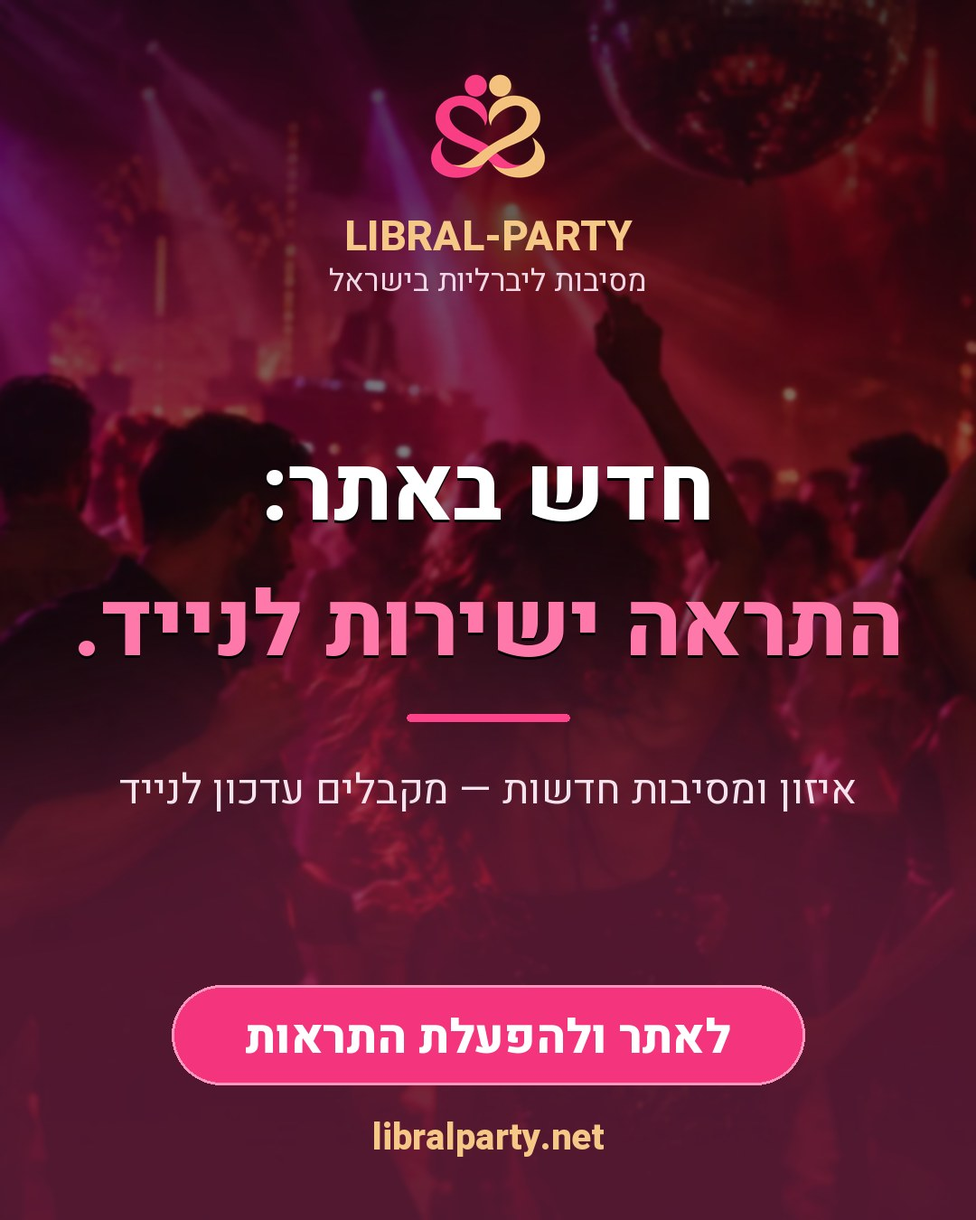
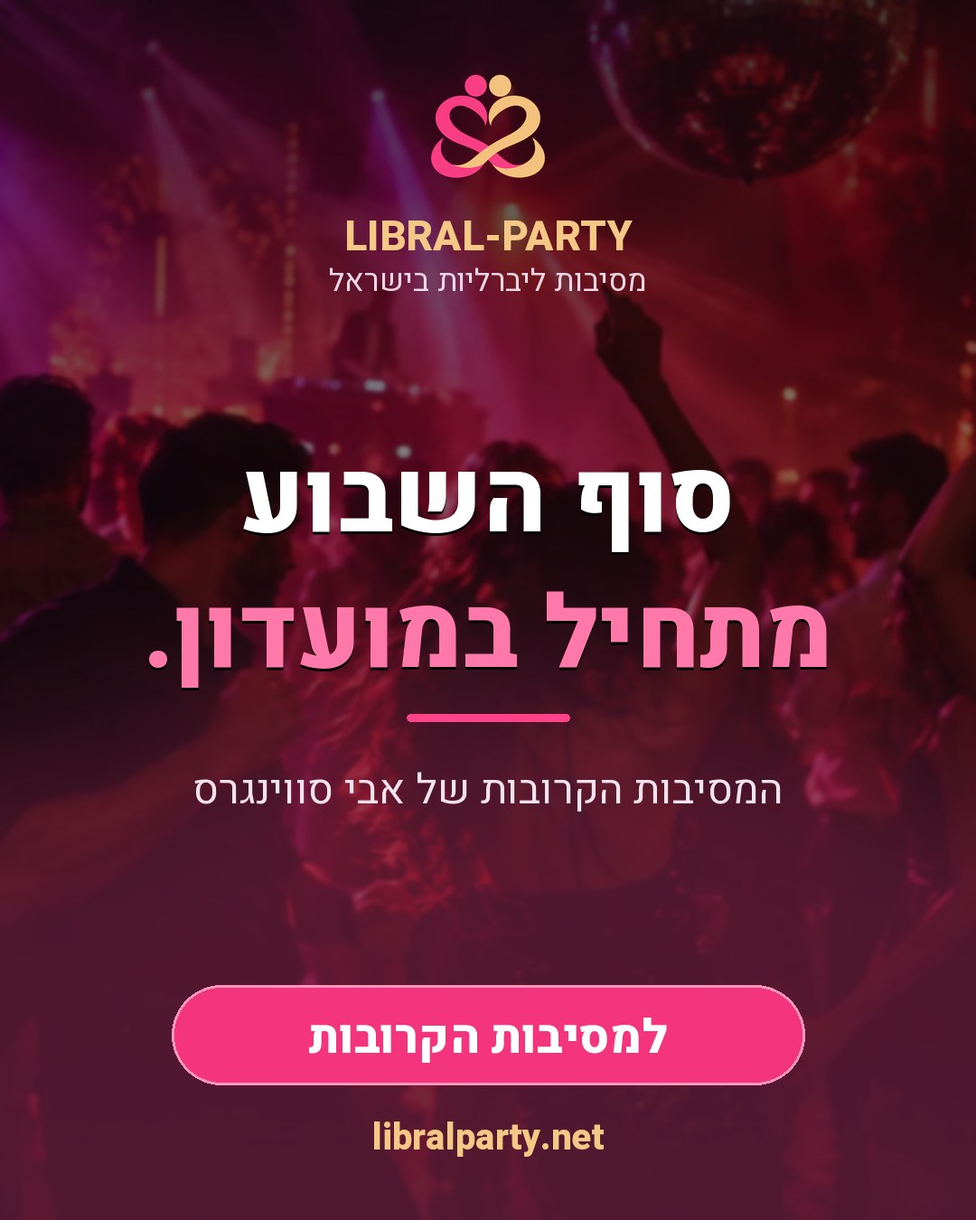
קמפיינים חדשים: ניהול חדש לאתר (אבי סווינגרס), המועדון של אבי והסוויטה הליברלית; בלי איזונים ובלי מנויים
Claude-Session: https://claude.ai/code/session_01MnETpxBKVPfyu1WyzPnxXv

diff --git a/shared/telegramCampaigns.js b/shared/telegramCampaigns.js
@@ -1,69 +1,64 @@
 // Generated by scripts/campaigns/make_campaigns.py — do not edit by hand.
-export const TELEGRAM_CAMPAIGNS_VERSION = "2026-10-21";
+export const TELEGRAM_CAMPAIGNS_VERSION = "2026-10-28";
 export const TELEGRAM_CAMPAIGNS = [
   {
     "id": "c01",
     "image": "https://www.libralparty.net/assets/campaigns/c01.jpg",
-    "caption": "💬 הקבוצה שלנו בוואטסאפ!\nמסיבות חדשות ועדכונים, ישר לנייד. מצטרפים בלחיצה.\n\n👇 להצטרפות לקבוצה:\nhttps://chat.whatsapp.com/LHo4Spoy73b38mDI5XEcF7"
+    "caption": "📣 עדכון חשוב: LIBRAL PARTY בניהול חדש!\nהאתר עובר לניהול של אבי סווינגרס. כל המסיבות של המועדון מופיעות באתר, וההרשמה נעשית בוואטסאפ מול אבי.\n\n👇 כל המסיבות באתר:\nhttps://www.libralparty.net/"
   },
   {
     "id": "c02",
     "image": "https://www.libralparty.net/assets/campaigns/c02.jpg",
-    "caption": "👥 הקבוצה שלנו בפייסבוק!\nמסיבות, חדשות מהקהילה והכרויות. מצטרפים ורואים הכל ראשונים.\n\n👇 להצטרפות לקבוצה:\nhttps://www.facebook.com/share/g/1D7ng47o28/"
+    "caption": "✨ הסוויטה הליברלית פתוחה להזמנות!\nסוויטת אירוח יוקרתית, מזוג אחד ועד 10 זוגות, עם פרטיות מלאה.\n\n👇 כל הפרטים והמחירון:\nhttps://www.libralparty.net/liberal-suite"
   },
   {
     "id": "c03",
     "image": "https://www.libralparty.net/assets/campaigns/c03.jpg",
-    "caption": "📸 עוקבים אחרינו באינסטגרם!\nתמונות, מסיבות חדשות וחדשות מהקהילה, בכל יום.\n\n👇 לעמוד שלנו:\nhttps://www.instagram.com/liberl_party/"
+    "caption": "🔥 המסיבות של המועדון של אבי סווינגרס!\nכל התאריכים הקרובים מופיעים באתר. בוחרים מסיבה ונרשמים בוואטסאפ מול אבי.\n\n👇 המסיבות הקרובות:\nhttps://www.libralparty.net/events"
   },
   {
     "id": "c04",
     "image": "https://www.libralparty.net/assets/campaigns/c04.jpg",
-    "caption": "🤝 תביאו חברים והקהילה גדלה!\nשולחים להם את הקישור, והם מצטרפים לקבוצות ולמסיבות שלנו.\n\n👇 הקישור לשליחה:\nhttps://www.libralparty.net/"
+    "caption": "🎂 יום הולדת שלא שוכחים!\nימי הולדת ומסיבות פרטיות ברמת פרימיום, בסוויטה הליברלית.\n\n👇 לפרטים ולהזמנה:\nhttps://www.libralparty.net/liberal-suite"
   },
   {
     "id": "c05",
     "image": "https://www.libralparty.net/assets/campaigns/c05.jpg",
-    "caption": "🌐 מצטרפים אלינו בכל מקום!\nהאתר, קבוצת הוואטסאפ, קבוצת הפייסבוק והאינסטגרם. בוחרים מה נוח לכם.\n\n👇 כניסה לאתר וכל הקישורים:\nhttps://www.libralparty.net/"
+    "caption": "💬 ההרשמה למסיבות פשוטה!\nבוחרים מסיבה באתר, לוחצים על \"הרשמה בוואטסאפ\" ושולחים הודעה לאבי. הוא חוזר אליכם עם כל הפרטים.\n\n👇 בוחרים מסיבה:\nhttps://www.libralparty.net/events"
   },
   {
     "id": "c06",
     "image": "https://www.libralparty.net/assets/campaigns/c06.jpg",
-    "caption": "✈ הערוץ שלנו בטלגרם!\nמסיבות חדשות ועדכונים מהקהילה. מכירים מישהו שיאהב? שולחים לו את הקישור.\n\n👇 מצטרפים לערוץ:\nhttps://t.me/libralparty"
+    "caption": "🌙 חדש בסוויטה הליברלית: אפטרים גם בלילה!\nשש שעות של חופש, על בסיס מקום פנוי.\n\n👇 לבדיקת זמינות:\nhttps://www.libralparty.net/liberal-suite"
   },
   {
     "id": "c07",
     "image": "https://www.libralparty.net/assets/campaigns/c07.jpg",
-    "caption": "📲 חדש באתר: התראות ישירות לנייד!\nמאשרים התראות פעם אחת, ומקבלים עדכון בכל פעם שעולה מסיבה חדשה.\n\n👇 נכנסים לאתר ומאשרים התראות:\nhttps://www.libralparty.net/"
+    "caption": "🎉 סוף השבוע מתחיל במועדון של אבי סווינגרס!\nכל המסיבות הקרובות באתר, וההרשמה בוואטסאפ.\n\n👇 המסיבות הקרובות:\nhttps://www.libralparty.net/events"
+  },
+  {
+    "id": "c08",
+    "image": "https://www.libralparty.net/assets/campaigns/c08.jpg",
+    "caption": "🌹 ערב זוגי ברמה אחרת.\nלינה וערב רומנטי ומיוחד בסוויטה הליברלית, בפרטיות מלאה.\n\n👇 לפרטים ולהזמנה:\nhttps://www.libralparty.net/liberal-suite"
+  },
+  {
+    "id": "c09",
+    "image": "https://www.libralparty.net/assets/campaigns/c09.jpg",
+    "caption": "📅 כל המסיבות של המועדון בלוח אחד!\nמפנים מקום ביומן ובוחרים את הלילה הבא.\n\n👇 ללוח האירועים:\nhttps://www.libralparty.net/calendar"
+  },
+  {
+    "id": "c10",
+    "image": "https://www.libralparty.net/assets/campaigns/c10.jpg",
+    "caption": "🖤 מתחם אבזור מושקע בסוויטה הליברלית!\nנדנדת פליי, חמור, ספת טנטרה וצלב, וחדר רחצה מרהיב.\n\n👇 לכל הפרטים:\nhttps://www.libralparty.net/liberal-suite"
   },
   {
     "id": "c11",
     "image": "https://www.libralparty.net/assets/campaigns/c11.jpg",
-    "caption": "✨ האתר התחדש!\nעיצוב חדש, טעינה מהירה בהרבה ותצוגה נוחה גם במחשב.\n\n👇 בואו להתרשם:\nhttps://www.libralparty.net/"
+    "caption": "🌙 הלילה הבא מתחיל כאן!\nכל המסיבות של המועדון של אבי סווינגרס, באתר אחד.\n\n👇 כניסה לאתר:\nhttps://www.libralparty.net/"
   },
   {
-    "id": "c14",
-    "image": "https://www.libralparty.net/assets/campaigns/c14.jpg",
-    "caption": "🔥 מסיבות חדשות עלו עכשיו לאתר!\nכל התאריכים, המקומות וההרשמה, הכל במקום אחד.\n\n👇 מה מתאים לכם הלילה?\nhttps://www.libralparty.net/events"
-  },
-  {
-    "id": "c16",
-    "image": "https://www.libralparty.net/assets/campaigns/c16.jpg",
-    "caption": "💑 זוגות, ההרשמה למסיבה לוקחת דקה!\nבוחרים מסיבה, שולחים הודעה בוואטסאפ ומגיעים ליהנות.\n\n👇 מסיבות פתוחות להרשמה:\nhttps://www.libralparty.net/events"
-  },
-  {
-    "id": "c17",
-    "image": "https://www.libralparty.net/assets/campaigns/c17.jpg",
-    "caption": "✨ פחות שגרה, יותר לילה!\nהמסיבה הבאה שלכם כבר מחכה באתר.\n\n👇 לוחצים ונרשמים:\nhttps://www.libralparty.net/events"
-  },
-  {
-    "id": "c18",
-    "image": "https://www.libralparty.net/assets/campaigns/c18.jpg",
-    "caption": "🩶 קהילה מכבדת, חיבורים מעניינים.\nמרחב של חופש ושל כבוד הדדי, להכיר, לרקוד ולצאת מהרגיל.\n\n👇 קצת עלינו:\nhttps://www.libralparty.net/about"
-  },
-  {
-    "id": "c20",
-    "image": "https://www.libralparty.net/assets/campaigns/c20.jpg",
-    "caption": "📅 כל המסיבות בלוח אחד!\nמפנים מקום ביומן ובוחרים את הלילה הבא.\n\n👇 ללוח האירועים:\nhttps://www.libralparty.net/calendar"
+    "id": "c12",
+    "image": "https://www.libralparty.net/assets/campaigns/c12.jpg",
+    "caption": "🥂 מסיבה פרטית משלכם!\nסלון אירוח מפנק, בר יוקרתי ומערכות סאונד, מזוג אחד ועד 10 זוגות.\n\n👇 לפרטים ולהזמנה:\nhttps://www.libralparty.net/liberal-suite"
   }
 ];

diff --git a/tests/api/campaignPost.test.js b/tests/api/campaignPost.test.js
@@ -92,3 +92,13 @@ describe('owner switches for the publisher', () => {
     expect(sent).toHaveLength(1);
   });
 });
+
+describe('campaign content', () => {
+  it('campaigns are only about the club and the suite: no balancing, memberships or site sign-up', async () => {
+    const { TELEGRAM_CAMPAIGNS } = await import('../../shared/telegramCampaigns.js');
+    expect(TELEGRAM_CAMPAIGNS.length).toBeGreaterThan(0);
+    for (const c of TELEGRAM_CAMPAIGNS) {
+      expect(c.caption, c.id).not.toMatch(/איזון|איזונ|מאוזנ|מנוי|האזור האישי|מועדפים|מפרסמ|\/register|\/membership|\/my-area/);
+    }
+  });
+});

diff --git a/scripts/campaigns/make_campaigns.py b/scripts/campaigns/make_campaigns.py
@@ -17,39 +17,41 @@ BG = {
     "lounge": "public/assets/design/lounge.webp",
     "pool": "public/assets/design/pool.webp",
     "social": "public/assets/design/social-banner.webp",
+    "suite": "public/assets/design/liberal-suite/suite-beds.jpeg",
+    "suitebar": "public/assets/design/liberal-suite/suite-bar.jpeg",
+    "suitelounge": "public/assets/design/liberal-suite/lounge-main.jpeg",
+    "suitesofa": "public/assets/design/liberal-suite/lounge-sofa.jpeg",
 }
 
 # id, background, headline lines (last line is highlighted), subline, button text, page, caption
+# Campaigns are only about Avi Swingers' club (the parties on the site, registration by WhatsApp with Avi)
+# and the Liberal Suite advertised on the site. Never about balancing, memberships or site accounts.
 CAMPAIGNS = [
-    # Join the community (first in the rotation, so the new pool starts with them)
-    ("g1", "social", ["הקבוצה שלנו", "בוואטסאפ."], "מסיבות חדשות ועדכונים, ישר לנייד", "להצטרפות לקבוצה", "https://chat.whatsapp.com/LHo4Spoy73b38mDI5XEcF7",
-     "💬 הקבוצה שלנו בוואטסאפ!\nמסיבות חדשות ועדכונים, ישר לנייד. מצטרפים בלחיצה.\n\n👇 להצטרפות לקבוצה:"),
-    ("g2", "dance", ["הקהילה בפייסבוק.", "מצטרפים עכשיו."], "קבוצה של אנשים שאוהבים לצאת למסיבות", "להצטרפות לקבוצה", "https://www.facebook.com/share/g/1D7ng47o28/",
-     "👥 הקבוצה שלנו בפייסבוק!\nמסיבות, חדשות מהקהילה והכרויות. מצטרפים ורואים הכל ראשונים.\n\n👇 להצטרפות לקבוצה:"),
-    ("g3", "lounge", ["עוקבים אחרינו", "באינסטגרם."], "תמונות, מסיבות חדשות וחדשות מהקהילה", "לעמוד באינסטגרם", "https://www.instagram.com/liberl_party/",
-     "📸 עוקבים אחרינו באינסטגרם!\nתמונות, מסיבות חדשות וחדשות מהקהילה, בכל יום.\n\n👇 לעמוד שלנו:"),
-    ("g4", "pool", ["תביאו חברים.", "הקהילה גדלה."], "שולחים את הקישור לחברים ומצטרפים ביחד", "כניסה לאתר", "/",
-     "🤝 תביאו חברים והקהילה גדלה!\nשולחים להם את הקישור, והם מצטרפים לקבוצות ולמסיבות שלנו.\n\n👇 הקישור לשליחה:"),
-    ("g5", "social", ["מצטרפים אלינו", "בכל מקום."], "אתר, וואטסאפ, פייסבוק ואינסטגרם: בוחרים איפה נוח", "כניסה לאתר", "/",
-     "🌐 מצטרפים אלינו בכל מקום!\nהאתר, קבוצת הוואטסאפ, קבוצת הפייסבוק והאינסטגרם. בוחרים מה נוח לכם.\n\n👇 כניסה לאתר וכל הקישורים:"),
-    ("g6", "lounge", ["הערוץ שלנו", "בטלגרם."], "מסיבות חדשות ועדכונים. שולחים לחברים שיאהבו", "לערוץ בטלגרם", "https://t.me/libralparty",
-     "✈ הערוץ שלנו בטלגרם!\nמסיבות חדשות ועדכונים מהקהילה. מכירים מישהו שיאהב? שולחים לו את הקישור.\n\n👇 מצטרפים לערוץ:"),
-    # What's new on the site (first in the rotation, so the news goes out first)
-    ("c01", "dance", ["חדש באתר:", "התראה ישירות לנייד."], "מסיבות חדשות — מקבלים עדכון לנייד", "לאתר ולהפעלת התראות", "/",
-     "📲 חדש באתר: התראות ישירות לנייד!\nמאשרים התראות פעם אחת, ומקבלים עדכון בכל פעם שעולה מסיבה חדשה.\n\n👇 נכנסים לאתר ומאשרים התראות:"),
-    ("c05", "dance", ["האתר החדש", "מהיר ויפה יותר."], "עיצוב חדש, טעינה מהירה ונוחות גם במחשב", "כניסה לאתר", "/",
-     "✨ האתר התחדש!\nעיצוב חדש, טעינה מהירה בהרבה ותצוגה נוחה גם במחשב.\n\n👇 בואו להתרשם:"),
-    # Evergreen campaigns
-    ("c08", "pool", ["מסיבות חדשות", "עלו לאתר."], "תאריכים, מקומות ופרטי הרשמה, הכל במקום אחד", "לכל המסיבות", "/events",
-     "🔥 מסיבות חדשות עלו עכשיו לאתר!\nכל התאריכים, המקומות וההרשמה, הכל במקום אחד.\n\n👇 מה מתאים לכם הלילה?"),
-    ("c09", "dance", ["זוגות?", "נרשמים בדקה."], "בוחרים מסיבה ושולחים הודעה בוואטסאפ", "להרשמה למסיבה", "/events",
-     "💑 זוגות, ההרשמה למסיבה לוקחת דקה!\nבוחרים מסיבה, שולחים הודעה בוואטסאפ ומגיעים ליהנות.\n\n👇 מסיבות פתוחות להרשמה:"),
-    ("c10", "social", ["המסיבה הבאה", "במרחק קליק."], "פחות שגרה. יותר לילה.", "למסיבה הבאה שלי", "/events",
-     "✨ פחות שגרה, יותר לילה!\nהמסיבה הבאה שלכם כבר מחכה באתר.\n\n👇 לוחצים ונרשמים:"),
-    ("c12", "pool", ["קהילה מכבדת.", "חיבורים מעניינים."], "מרחב של חופש ושל כבוד הדדי. 18+", "להכיר את הקהילה", "/about",
-     "🩶 קהילה מכבדת, חיבורים מעניינים.\nמרחב של חופש ושל כבוד הדדי, להכיר, לרקוד ולצאת מהרגיל.\n\n👇 קצת עלינו:"),
-    ("c13", "dance", ["כל האירועים", "בלוח אחד."], "מפנים מקום ביומן ובוחרים מסיבה", "ללוח האירועים", "/calendar",
-     "📅 כל המסיבות בלוח אחד!\nמפנים מקום ביומן ובוחרים את הלילה הבא.\n\n👇 ללוח האירועים:"),
+    # The news first: the site's new management
+    ("n1", "dance", ["ניהול חדש לאתר:", "אבי סווינגרס."], "כל המסיבות של המועדון באתר אחד, וההרשמה בוואטסאפ מול אבי", "כניסה לאתר", "/",
+     "📣 עדכון חשוב: LIBRAL PARTY בניהול חדש!\nהאתר עובר לניהול של אבי סווינגרס. כל המסיבות של המועדון מופיעות באתר, וההרשמה נעשית בוואטסאפ מול אבי.\n\n👇 כל המסיבות באתר:"),
+    ("s1", "suite", ["הסוויטה הליברלית", "פתוחה להזמנות."], "סוויטת יוקרה לזוג אחד ועד 10 זוגות", "לפרטים ולהזמנה", "/liberal-suite",
+     "✨ הסוויטה הליברלית פתוחה להזמנות!\nסוויטת אירוח יוקרתית, מזוג אחד ועד 10 זוגות, עם פרטיות מלאה.\n\n👇 כל הפרטים והמחירון:"),
+    ("k1", "pool", ["המסיבות של", "המועדון של אבי."], "כל התאריכים הקרובים מחכים באתר", "לכל המסיבות", "/events",
+     "🔥 המסיבות של המועדון של אבי סווינגרס!\nכל התאריכים הקרובים מופיעים באתר. בוחרים מסיבה ונרשמים בוואטסאפ מול אבי.\n\n👇 המסיבות הקרובות:"),
+    ("s2", "suitelounge", ["יום הולדת", "בלתי נשכח."], "ימי הולדת ומסיבות פרטיות בסוויטה הליברלית", "לפרטים ולהזמנה", "/liberal-suite",
+     "🎂 יום הולדת שלא שוכחים!\nימי הולדת ומסיבות פרטיות ברמת פרימיום, בסוויטה הליברלית.\n\n👇 לפרטים ולהזמנה:"),
+    ("k2", "lounge", ["נרשמים בוואטסאפ", "מול אבי."], "בוחרים מסיבה באתר ושולחים הודעה, זה הכל", "לכל המסיבות", "/events",
+     "💬 ההרשמה למסיבות פשוטה!\nבוחרים מסיבה באתר, לוחצים על \"הרשמה בוואטסאפ\" ושולחים הודעה לאבי. הוא חוזר אליכם עם כל הפרטים.\n\n👇 בוחרים מסיבה:"),
+    ("s3", "suitebar", ["אפטר בלילה?", "יש לנו מקום."], "אפטרים של 6 שעות, לפי מקום פנוי", "לבדיקת זמינות", "/liberal-suite",
+     "🌙 חדש בסוויטה הליברלית: אפטרים גם בלילה!\nשש שעות של חופש, על בסיס מקום פנוי.\n\n👇 לבדיקת זמינות:"),
+    ("k3", "dance", ["סוף השבוע", "מתחיל במועדון."], "המסיבות הקרובות של אבי סווינגרס", "למסיבות הקרובות", "/events",
+     "🎉 סוף השבוע מתחיל במועדון של אבי סווינגרס!\nכל המסיבות הקרובות באתר, וההרשמה בוואטסאפ.\n\n👇 המסיבות הקרובות:"),
+    ("s4", "suite", ["ערב זוגי", "ברמה אחרת."], "לינה וערב רומנטי בסוויטה הליברלית", "לפרטים ולהזמנה", "/liberal-suite",
+     "🌹 ערב זוגי ברמה אחרת.\nלינה וערב רומנטי ומיוחד בסוויטה הליברלית, בפרטיות מלאה.\n\n👇 לפרטים ולהזמנה:"),
+    ("k4", "social", ["לוח המסיבות", "של המועדון."], "מפנים מקום ביומן ובוחרים את הלילה הבא", "ללוח האירועים", "/calendar",
+     "📅 כל המסיבות של המועדון בלוח אחד!\nמפנים מקום ביומן ובוחרים את הלילה הבא.\n\n👇 ללוח האירועים:"),
+    ("s5", "suitesofa", ["מתחם אבזור", "מושקע."], "נדנדה, ספת טנטרה וצלב, בסוויטה הליברלית", "לפרטים ולהזמנה", "/liberal-suite",
+     "🖤 מתחם אבזור מושקע בסוויטה הליברלית!\nנדנדת פליי, חמור, ספת טנטרה וצלב, וחדר רחצה מרהיב.\n\n👇 לכל הפרטים:"),
+    ("k5", "pool", ["הלילה הבא", "מתחיל כאן."], "המועדון של אבי סווינגרס, כל המסיבות באתר", "כניסה לאתר", "/",
+     "🌙 הלילה הבא מתחיל כאן!\nכל המסיבות של המועדון של אבי סווינגרס, באתר אחד.\n\n👇 כניסה לאתר:"),
+    ("s6", "suitelounge", ["מסיבה פרטית", "משלכם."], "סלון אירוח, בר ומערכת סאונד, מזוג ועד 10 זוגות", "לפרטים ולהזמנה", "/liberal-suite",
+     "🥂 מסיבה פרטית משלכם!\nסלון אירוח מפנק, בר יוקרתי ומערכות סאונד, מזוג אחד ועד 10 זוגות.\n\n👇 לפרטים ולהזמנה:"),
 ]
 
 def merged_font(weight):
